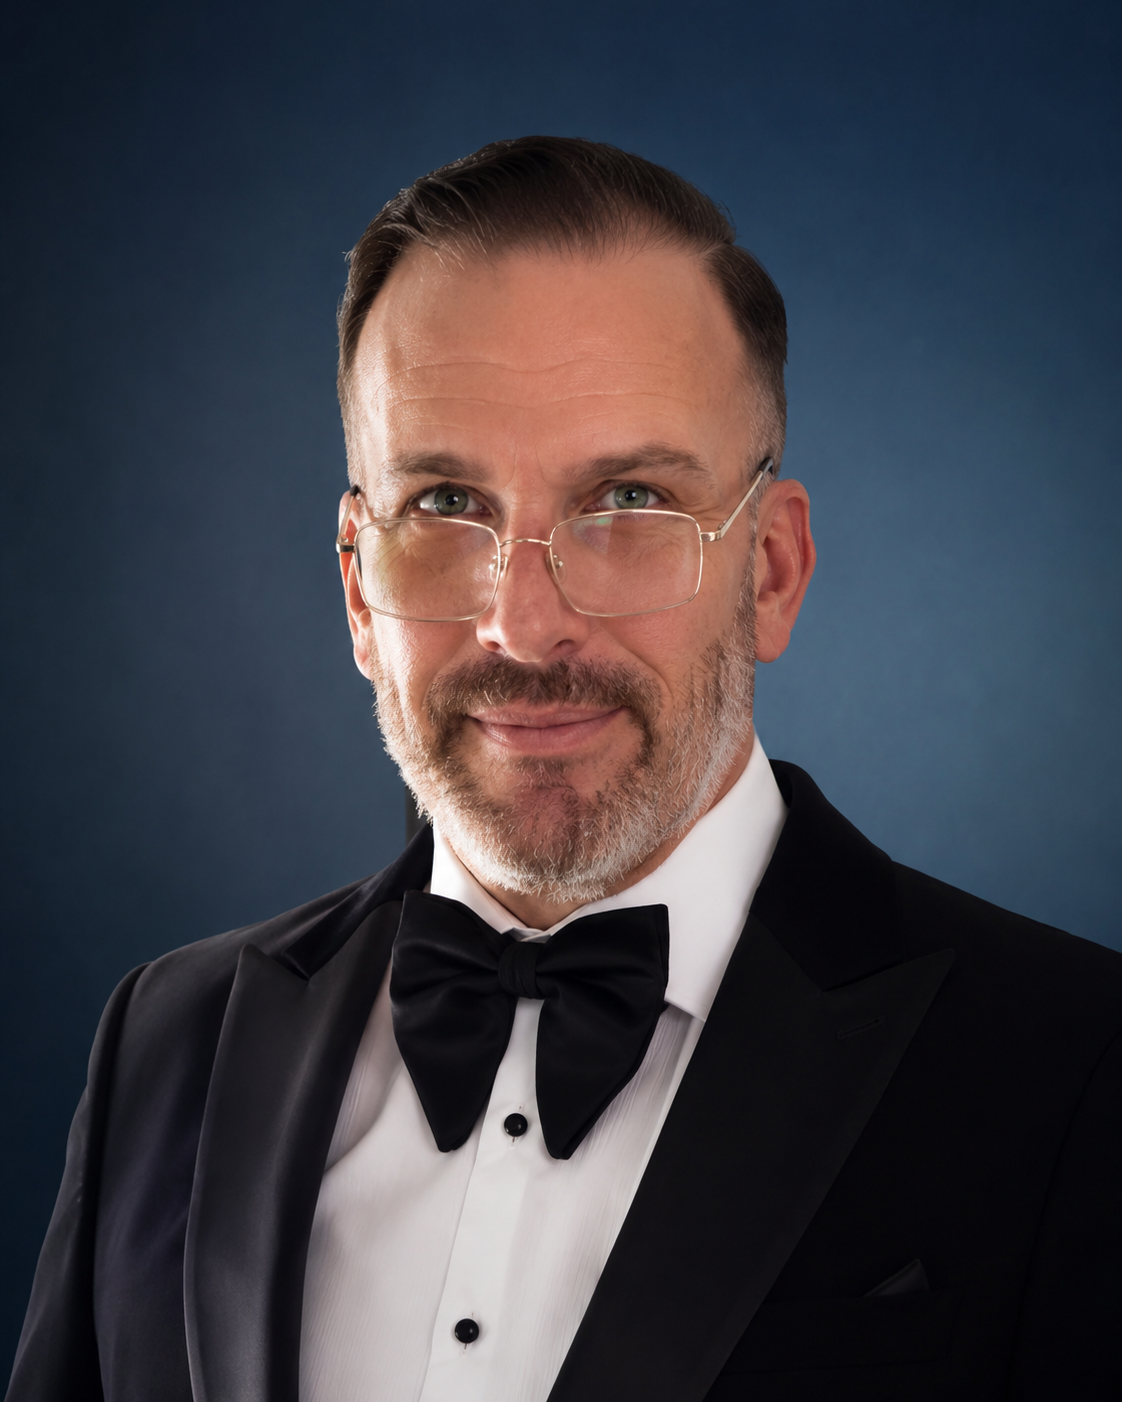
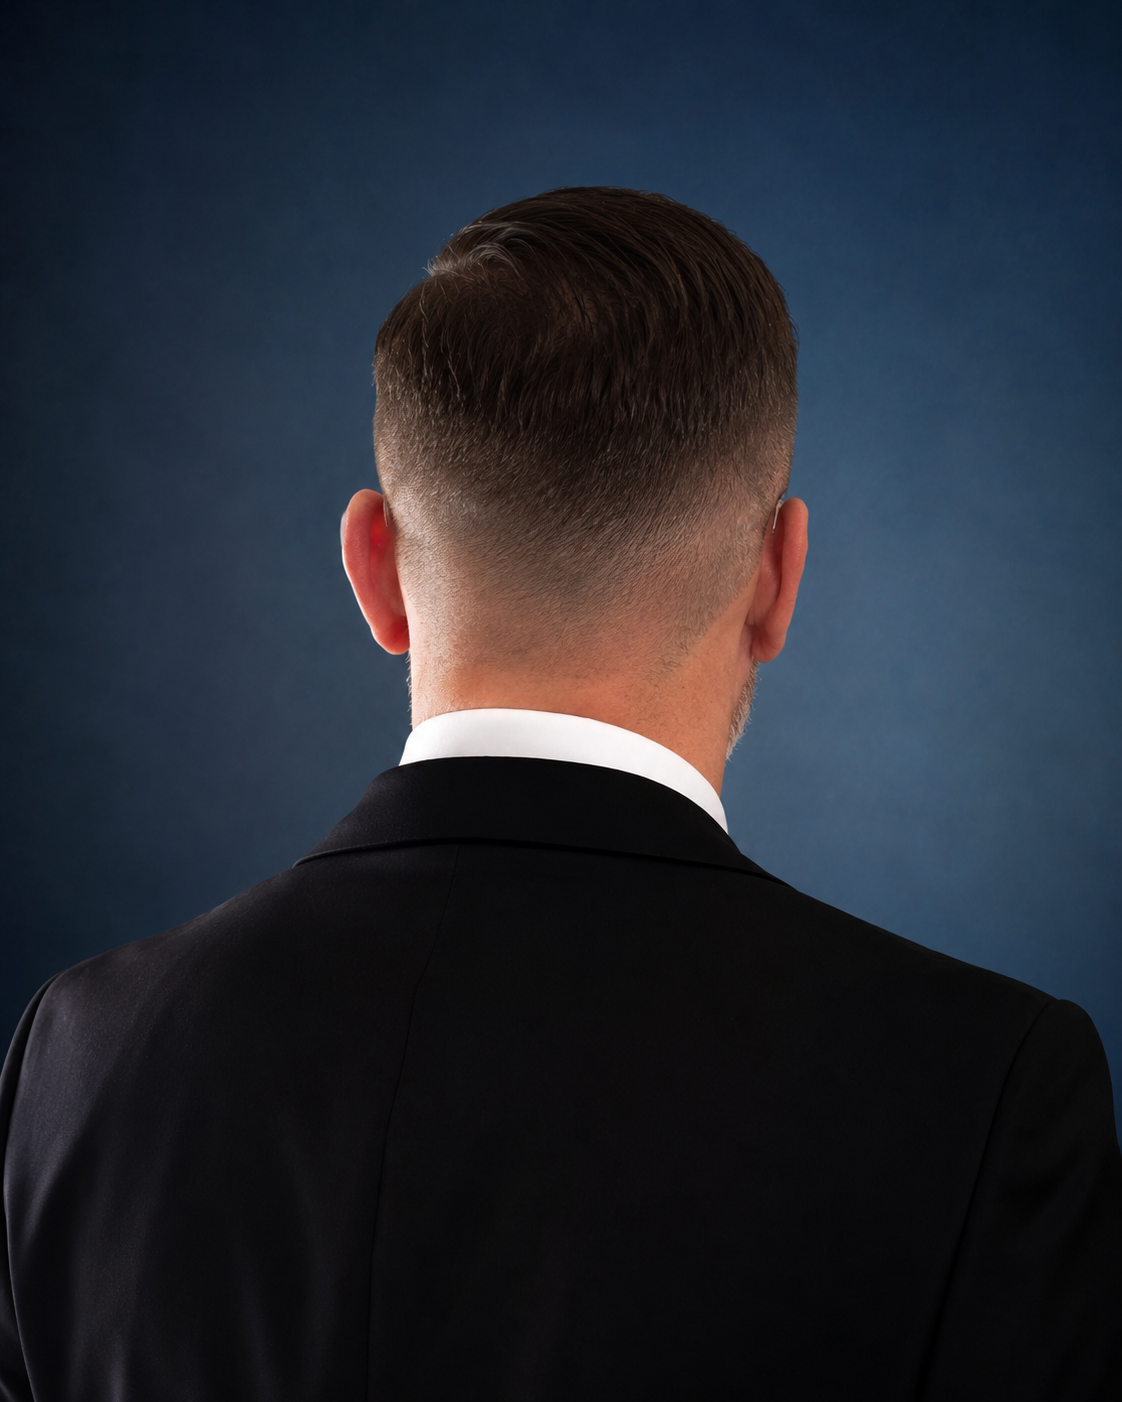
feat: update Nico Moretti About section portrait with new studio shot

diff --git a/public/clients/nico-moretti/index.html b/public/clients/nico-moretti/index.html
@@ -192,7 +192,7 @@
 <!-- Image Side -->
 <div class="lg:col-span-5 relative fade-up">
 <div class="aspect-[4/5] relative">
-<img alt="Nico Moretti — a professional studio portrait in tuxedo against a deep navy background." class="w-full h-full object-cover rounded-sm" src="/clients/nico-moretti/nico-moretti-studio.png"/>
+<img alt="Nico Moretti — studio portrait from behind, sharp fade, black suit against deep navy background." class="w-full h-full object-cover rounded-sm" src="/clients/nico-moretti/nico-moretti-studio.png"/>
 <!-- Decorative Frame -->
 <div class="absolute -inset-4 border border-outline/20 z-[-1] translate-x-4 translate-y-4"></div>
 </div>

diff --git a/app/saabai-changelog/SaabaiChangelogClient.tsx b/app/saabai-changelog/SaabaiChangelogClient.tsx
@@ -30,6 +30,7 @@ const CHANGELOG: Day[] = [
   {
     date: "15 Jun 2026",
     entries: [
+      { time: "23:46", tag: "NEW", title: "Update Nico Moretti hero image with new photo" },
       { time: "23:19", tag: "NEW", title: "Auto-migrate legacy sites to Blob+Redis on editor open" }
     ],
   },